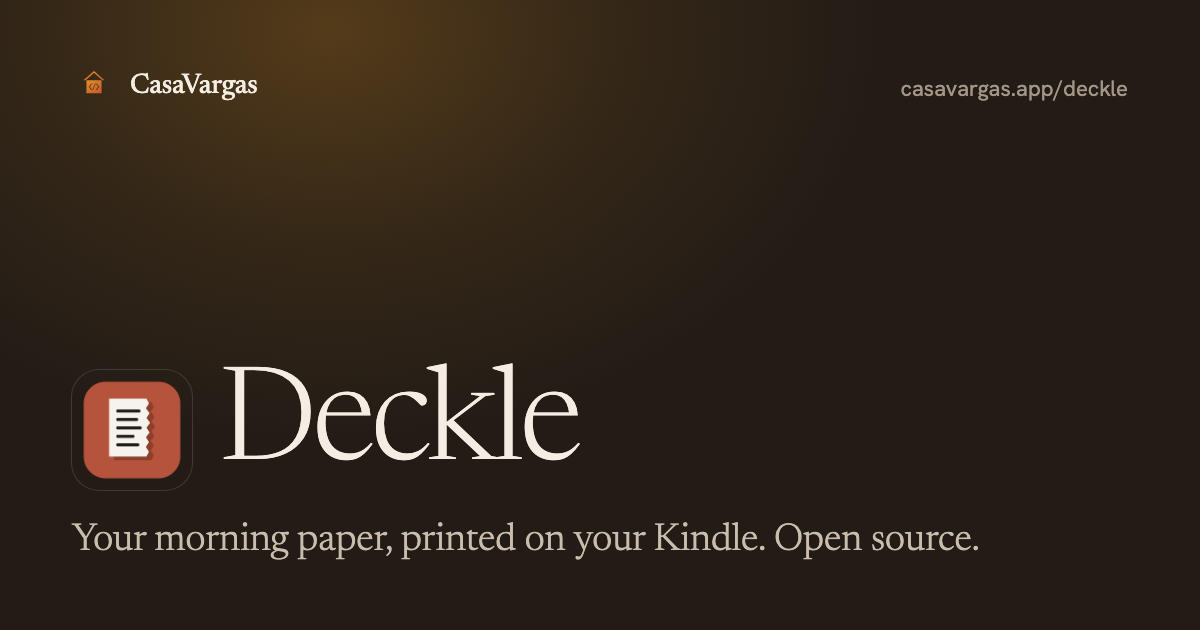
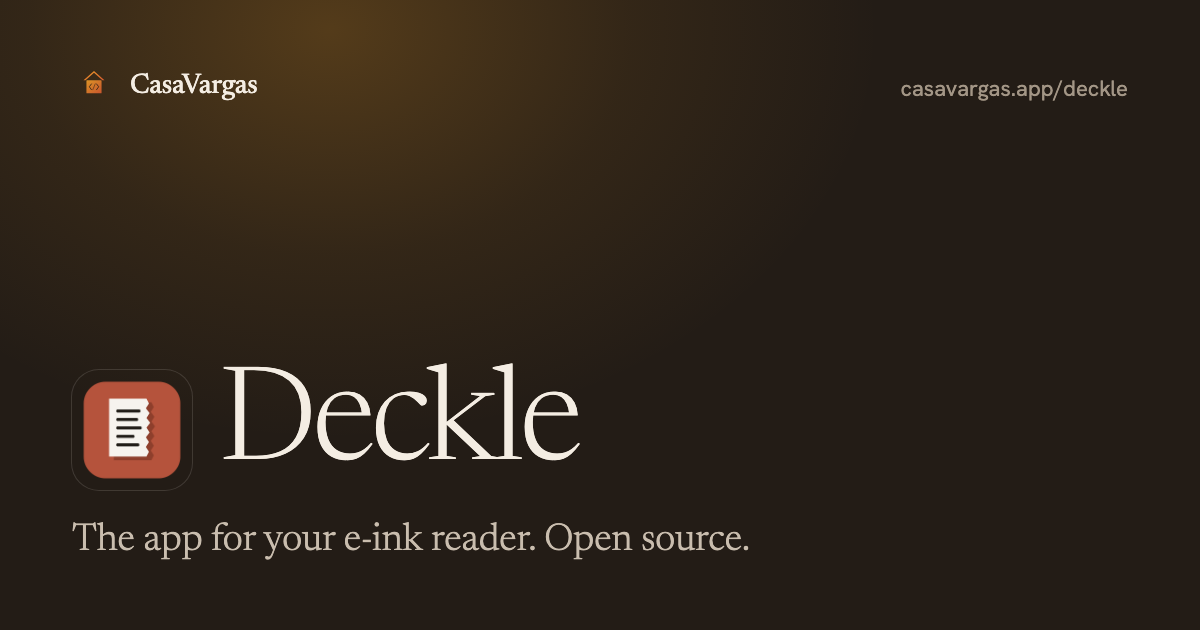
content(deckle): the app for your e-ink reader, at 0.6.0
Reposition /deckle/ and the case study around any e-ink reader: a readers
table (Kindle, Kobo, PocketBook, reMarkable, Boox, iPad) right under the
lead, Kindle Previewer named as a Kindle-only need, honest simulated-only
status kept. Version 0.6.0 (Markdown books, book styles, optional Daily
editor); the bench mirrors the changelog's Unreleased list. OG cards, work.ts
and llms*.txt reworded. PLAN.md §16.

Changed region(s): [[0.0617, 0.8143, 0.8325, 0.9048]]

diff --git a/src/data/work.ts b/src/data/work.ts
@@ -187,9 +187,9 @@ export const work: Work[] = [
   {
     slug: 'deckle',
     name: 'Deckle',
-    what: 'A morning paper for your Kindle, and better books',
+    what: 'The app for your e-ink reader: a paper, and better books',
     tagline:
-      'Deckle prints a real morning newspaper on your Kindle, built on your own computer from your town’s news and weather and the reading you saved, and turns the books you own into Kindle books that read like the store’s.',
+      'Deckle is the app for your e-ink reader. It prints a real morning newspaper on your Kindle, Kobo, PocketBook or reMarkable, built on your own computer from your town’s news and weather and the reading you saved, and turns the books you own into Kindle books that read like the store’s.',
     group: 'open-source',
     runsOn: ['macOS', 'Windows'],
     builtWith: ['Tauri', 'Rust', 'React'],

diff --git a/PLAN.md b/PLAN.md
@@ -569,3 +569,42 @@ news that fits" sits close to the New York Times motto.
   draws its own, in a fictional town (Larkspur Falls, VT) with NASA, Ars Technica, Hacker
   News and Atlas Obscura feeds so no real place or political headline is on the page. It is
   1x (1100 px); replace it with a 2x capture when one is available.
+
+## 16. Deckle, the app for your e-ink reader (2026-10-25, revision of §14)
+
+The owner's call: Deckle is **the app to use for an e-ink reader**, not a Kindle utility
+that happens to reach other readers. §13's routes, content rules and screenshot rules
+still apply; §14's "paper first, books second" order stays.
+
+### 16.1 Positioning
+
+- One line: **"The app for your e-ink reader."** Standfirst: the morning paper on a
+  Kindle, Kobo, PocketBook or reMarkable, then the books you own finished like the
+  store's. "E-ink is paper" stays the wink in the paper section.
+- **Readers, named and honest.** A table right under the lead: Kindle (verified on a
+  Scribe 2024 and a Paperwhite), Kobo (KEPUB), PocketBook (EPUB), reMarkable (PDF over
+  its USB web interface), Boox and iPad (an export folder). The note that Kobo,
+  PocketBook and reMarkable are checked only against simulated devices stays on the
+  page until `docs/devices.md` records a real one. Never "works with every reader".
+- **Kindle Previewer is for Kindle books only.** Say so in the facts table and in
+  Install: the paper for a Kobo, PocketBook or reMarkable, and EPUB or PDF exports, need
+  nothing from Amazon.
+- **Version follows the release**: 0.6.0 (Markdown books, book styles, library search,
+  an optional Daily AI editor, off by default). "Being built right now" mirrors the
+  changelog's *Unreleased* list (many papers, large print, a schedule per paper, several
+  Kindles by name, DRM-free Kindle books, RTF, OpenDocument, FB2); delete items as they
+  ship. "Being considered" is the open `triage/decision` issues.
+
+### 16.2 Also touched
+
+- `work.ts`: `what` and `tagline` lead with the e-ink reader.
+- Case study: title, intro, a "Not only a Kindle" feature in place of "Covers that stay"
+  (the cover rule is still in engineering), record at 0.6.0.
+- OG cards re-rendered; `llms.txt` and `llms-full.txt` reworded.
+
+### 16.3 Verification
+
+- [x] `npm run build` clean; no em dashes in the Deckle pages, `work.ts` or `llms*.txt`
+- [x] 390 px: `scrollWidth === clientWidth` on `/`, `/deckle/`, `/work/deckle/`
+- [x] Visual pass of `/deckle/` and `/work/deckle/` against `npm run preview`
+- [x] JSON-LD parses; internal links resolve
